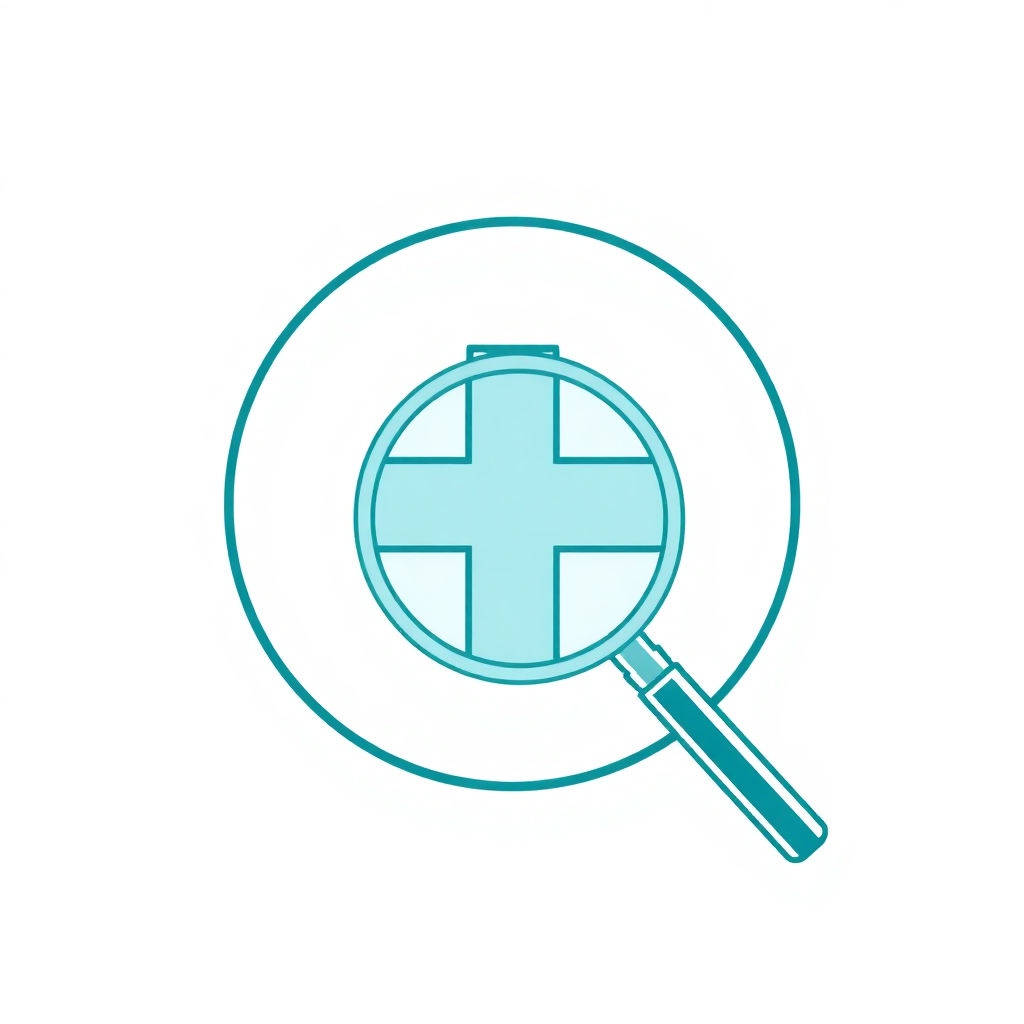
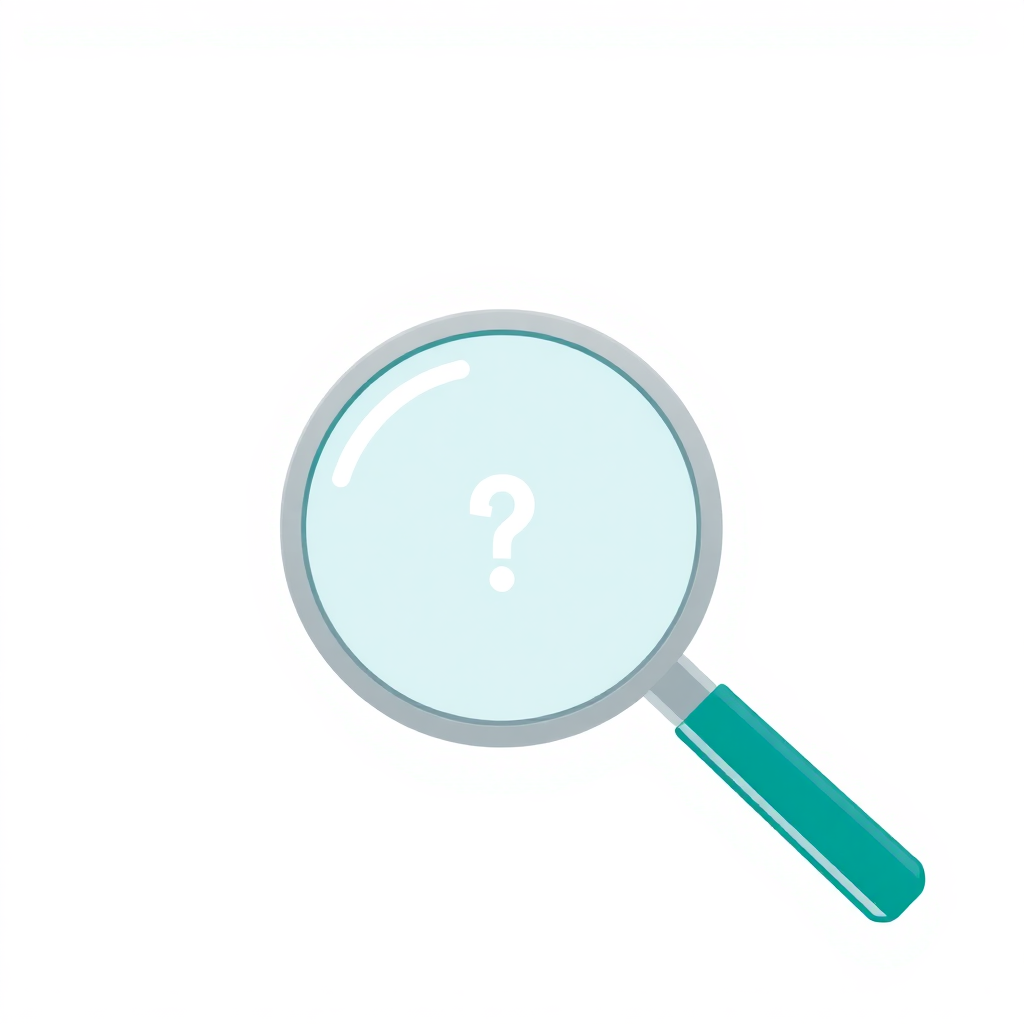
Prepare project for Android Studio APK compilation

diff --git a/app/(tabs)/settings.tsx b/app/(tabs)/settings.tsx
@@ -1,0 +1,187 @@
+import React from 'react';
+import { View, Text, StyleSheet, Pressable, ScrollView, Platform } from 'react-native';
+import { SafeAreaView } from 'react-native-safe-area-context';
+import { MaterialIcons } from '@expo/vector-icons';
+import * as Haptics from 'expo-haptics';
+import { useTheme } from '@/hooks/useTheme';
+import { ThemeMode } from '@/contexts/ThemeContext';
+import { facilities, facilityTypeConfig } from '@/services/mockData';
+
+const themeModes: { mode: ThemeMode; icon: string; label: string; description: string }[] = [
+  { mode: 'light', icon: 'light-mode', label: 'Claro', description: 'Interfaz clara siempre' },
+  { mode: 'dark', icon: 'dark-mode', label: 'Oscuro', description: 'Interfaz oscura siempre' },
+  { mode: 'auto', icon: 'brightness-auto', label: 'Automático', description: 'Sigue la configuración del sistema' },
+];
+
+export default function SettingsScreen() {
+  const { colors, shadow, mode, setMode, isDark } = useTheme();
+
+  const totalFacilities = facilities.length;
+  const typeCounts = Object.entries(facilityTypeConfig).map(([key, cfg]) => ({
+    key,
+    label: cfg.label,
+    color: cfg.color,
+    count: facilities.filter(f => f.type === key).length,
+  }));
+
+  return (
+    <SafeAreaView edges={['top']} style={[styles.container, { backgroundColor: colors.background }]}>
+      <ScrollView showsVerticalScrollIndicator={false} contentContainerStyle={styles.scrollContent}>
+        <View style={styles.header}>
+          <Text style={[styles.title, { color: colors.textPrimary }]}>Configuración</Text>
+          <Text style={[styles.subtitle, { color: colors.textSecondary }]}>GEOspital v1.0.0</Text>
+        </View>
+
+        {/* Theme Section */}
+        <View style={styles.section}>
+          <Text style={[styles.sectionTitle, { color: colors.textSecondary }]}>APARIENCIA</Text>
+          <View style={[styles.card, shadow.small, { backgroundColor: colors.surface }]}>
+            {themeModes.map((tm, index) => (
+              <React.Fragment key={tm.mode}>
+                <Pressable
+                  style={[
+                    styles.themeOption,
+                    mode === tm.mode && { backgroundColor: colors.primaryLight },
+                  ]}
+                  onPress={() => {
+                    Haptics.selectionAsync();
+                    setMode(tm.mode);
+                  }}
+                >
+                  <View style={[styles.themeIconCircle, { backgroundColor: mode === tm.mode ? colors.primary : colors.backgroundSecondary }]}>
+                    <MaterialIcons
+                      name={tm.icon as any}
+                      size={20}
+                      color={mode === tm.mode ? '#FFFFFF' : colors.textSecondary}
+                    />
+                  </View>
+                  <View style={styles.themeTextContainer}>
+                    <Text style={[styles.themeLabel, { color: colors.textPrimary }]}>{tm.label}</Text>
+                    <Text style={[styles.themeDescription, { color: colors.textSecondary }]}>{tm.description}</Text>
+                  </View>
+                  {mode === tm.mode ? (
+                    <MaterialIcons name="check-circle" size={22} color={colors.primary} />
+                  ) : (
+                    <MaterialIcons name="radio-button-unchecked" size={22} color={colors.border} />
+                  )}
+                </Pressable>
+                {index < themeModes.length - 1 ? (
+                  <View style={[styles.separator, { backgroundColor: colors.border }]} />
+                ) : null}
+              </React.Fragment>
+            ))}
+          </View>
+          <Text style={[styles.sectionFooter, { color: colors.textSecondary }]}>
+            Modo actual: {isDark ? 'Oscuro' : 'Claro'}
+          </Text>
+        </View>
+
+        {/* Stats Section */}
+        <View style={styles.section}>
+          <Text style={[styles.sectionTitle, { color: colors.textSecondary }]}>ESTADÍSTICAS DE LA BASE DE DATOS</Text>
+          <View style={[styles.card, shadow.small, { backgroundColor: colors.surface }]}>
+            <View style={styles.totalRow}>
+              <MaterialIcons name="local-hospital" size={24} color={colors.primary} />
+              <Text style={[styles.totalText, { color: colors.textPrimary }]}>
+                {totalFacilities} centros de salud
+              </Text>
+            </View>
+            <View style={[styles.separator, { backgroundColor: colors.border }]} />
+            {typeCounts.map((tc, index) => (
+              <React.Fragment key={tc.key}>
+                <View style={styles.statRow}>
+                  <View style={[styles.statDot, { backgroundColor: tc.color }]} />
+                  <Text style={[styles.statLabel, { color: colors.textPrimary }]}>{tc.label}</Text>
+                  <Text style={[styles.statCount, { color: colors.textSecondary }]}>{tc.count}</Text>
+                </View>
+                {index < typeCounts.length - 1 ? (
+                  <View style={[styles.separatorThin, { backgroundColor: colors.border }]} />
+                ) : null}
+              </React.Fragment>
+            ))}
+          </View>
+        </View>
+
+        {/* Info Section */}
+        <View style={styles.section}>
+          <Text style={[styles.sectionTitle, { color: colors.textSecondary }]}>INFORMACIÓN</Text>
+          <View style={[styles.card, shadow.small, { backgroundColor: colors.surface }]}>
+            <View style={styles.infoRow}>
+              <MaterialIcons name="info" size={20} color={colors.primary} />
+              <View style={styles.infoTextContainer}>
+                <Text style={[styles.infoLabel, { color: colors.textPrimary }]}>Versión</Text>
+                <Text style={[styles.infoValue, { color: colors.textSecondary }]}>1.0.0</Text>
+              </View>
+            </View>
+            <View style={[styles.separator, { backgroundColor: colors.border }]} />
+            <View style={styles.infoRow}>
+              <MaterialIcons name="place" size={20} color={colors.primary} />
+              <View style={styles.infoTextContainer}>
+                <Text style={[styles.infoLabel, { color: colors.textPrimary }]}>Cobertura</Text>
+                <Text style={[styles.infoValue, { color: colors.textSecondary }]}>52 comunas de la Región Metropolitana</Text>
+              </View>
+            </View>
+            <View style={[styles.separator, { backgroundColor: colors.border }]} />
+            <View style={styles.infoRow}>
+              <MaterialIcons name="verified" size={20} color={colors.primary} />
+              <View style={styles.infoTextContainer}>
+                <Text style={[styles.infoLabel, { color: colors.textPrimary }]}>Fuentes</Text>
+                <Text style={[styles.infoValue, { color: colors.textSecondary }]}>MINSAL, Google Maps, SSMC, sitios oficiales</Text>
+              </View>
+            </View>
+            <View style={[styles.separator, { backgroundColor: colors.border }]} />
+            <View style={styles.infoRow}>
+              <MaterialIcons name="devices" size={20} color={colors.primary} />
+              <View style={styles.infoTextContainer}>
+                <Text style={[styles.infoLabel, { color: colors.textPrimary }]}>Plataforma</Text>
+                <Text style={[styles.infoValue, { color: colors.textSecondary }]}>
+                  {Platform.OS === 'android' ? 'Android' : Platform.OS === 'ios' ? 'iOS' : 'Web'} - {Platform.Version}
+                </Text>
+              </View>
+            </View>
+          </View>
+        </View>
+
+        <View style={styles.footer}>
+          <Text style={[styles.footerText, { color: colors.textSecondary }]}>
+            GEOspital - Localizador de Centros de Salud
+          </Text>
+          <Text style={[styles.footerText, { color: colors.textSecondary }]}>
+            Región Metropolitana de Santiago, Chile
+          </Text>
+        </View>
+      </ScrollView>
+    </SafeAreaView>
+  );
+}
+
+const styles = StyleSheet.create({
+  container: { flex: 1 },
+  scrollContent: { paddingBottom: 40 },
+  header: { paddingHorizontal: 16, paddingTop: 8, paddingBottom: 20 },
+  title: { fontSize: 28, fontWeight: '700' },
+  subtitle: { fontSize: 14, fontWeight: '500', marginTop: 2 },
+  section: { paddingHorizontal: 16, marginBottom: 24 },
+  sectionTitle: { fontSize: 12, fontWeight: '700', letterSpacing: 1, marginBottom: 10 },
+  sectionFooter: { fontSize: 12, marginTop: 8, paddingHorizontal: 4 },
+  card: { borderRadius: 14, overflow: 'hidden' },
+  themeOption: { flexDirection: 'row', alignItems: 'center', paddingHorizontal: 16, paddingVertical: 14, gap: 12 },
+  themeIconCircle: { width: 38, height: 38, borderRadius: 19, alignItems: 'center', justifyContent: 'center' },
+  themeTextContainer: { flex: 1 },
+  themeLabel: { fontSize: 15, fontWeight: '600' },
+  themeDescription: { fontSize: 12, marginTop: 2 },
+  separator: { height: 1, marginHorizontal: 16 },
+  separatorThin: { height: StyleSheet.hairlineWidth, marginHorizontal: 16 },
+  totalRow: { flexDirection: 'row', alignItems: 'center', gap: 12, paddingHorizontal: 16, paddingVertical: 14 },
+  totalText: { fontSize: 17, fontWeight: '700' },
+  statRow: { flexDirection: 'row', alignItems: 'center', paddingHorizontal: 16, paddingVertical: 10, gap: 10 },
+  statDot: { width: 10, height: 10, borderRadius: 5 },
+  statLabel: { flex: 1, fontSize: 14, fontWeight: '500' },
+  statCount: { fontSize: 14, fontWeight: '700' },
+  infoRow: { flexDirection: 'row', alignItems: 'center', paddingHorizontal: 16, paddingVertical: 12, gap: 12 },
+  infoTextContainer: { flex: 1 },
+  infoLabel: { fontSize: 14, fontWeight: '600' },
+  infoValue: { fontSize: 12, marginTop: 2 },
+  footer: { alignItems: 'center', paddingVertical: 24 },
+  footerText: { fontSize: 12, marginBottom: 2 },
+});

diff --git a/app.config.ts b/app.config.ts
@@ -1,0 +1,51 @@
+import { ExpoConfig, ConfigContext } from 'expo/config';
+
+export default ({ config }: ConfigContext): ExpoConfig => ({
+  ...config,
+  name: 'GEOspital',
+  slug: 'geospital',
+  version: '1.0.0',
+  orientation: 'portrait',
+  icon: './assets/images/logo.png',
+  scheme: 'geospital',
+  userInterfaceStyle: 'automatic',
+  newArchEnabled: true,
+  ios: {
+    supportsTablet: true,
+    bundleIdentifier: 'com.geospital.app',
+    infoPlist: {
+      NSLocationWhenInUseUsageDescription:
+        'GEOspital usa tu ubicación para mostrar centros de salud cercanos.',
+    },
+  },
+  android: {
+    package: 'com.geospital.app',
+    versionCode: 1,
+    adaptiveIcon: {
+      foregroundImage: './assets/images/logo.png',
+      backgroundColor: '#0D9488',
+    },
+    edgeToEdgeEnabled: true,
+    permissions: ['ACCESS_FINE_LOCATION', 'ACCESS_COARSE_LOCATION'],
+  },
+  web: {
+    bundler: 'metro',
+    output: 'static',
+    favicon: './assets/images/logo.png',
+  },
+  plugins: [
+    'expo-router',
+    [
+      'expo-splash-screen',
+      {
+        image: './assets/images/logo.png',
+        imageWidth: 200,
+        resizeMode: 'contain',
+        backgroundColor: '#0D9488',
+      },
+    ],
+  ],
+  experiments: {
+    typedRoutes: true,
+  },
+});

diff --git a/app/(tabs)/_layout.tsx b/app/(tabs)/_layout.tsx
@@ -54,6 +54,15 @@ export default function TabLayout() {
           ),
         }}
       />
+      <Tabs.Screen
+        name="settings"
+        options={{
+          title: 'Ajustes',
+          tabBarIcon: ({ color, size }) => (
+            <MaterialIcons name="settings" size={size} color={color} />
+          ),
+        }}
+      />
     </Tabs>
   );
 }

diff --git a/metro.config.js b/metro.config.js
@@ -1,0 +1,5 @@
+const { getDefaultConfig } = require('expo/metro-config');
+
+const config = getDefaultConfig(__dirname);
+
+module.exports = config;

diff --git a/index.ts b/index.ts
@@ -1,0 +1,1 @@
+import 'expo-router/entry';
